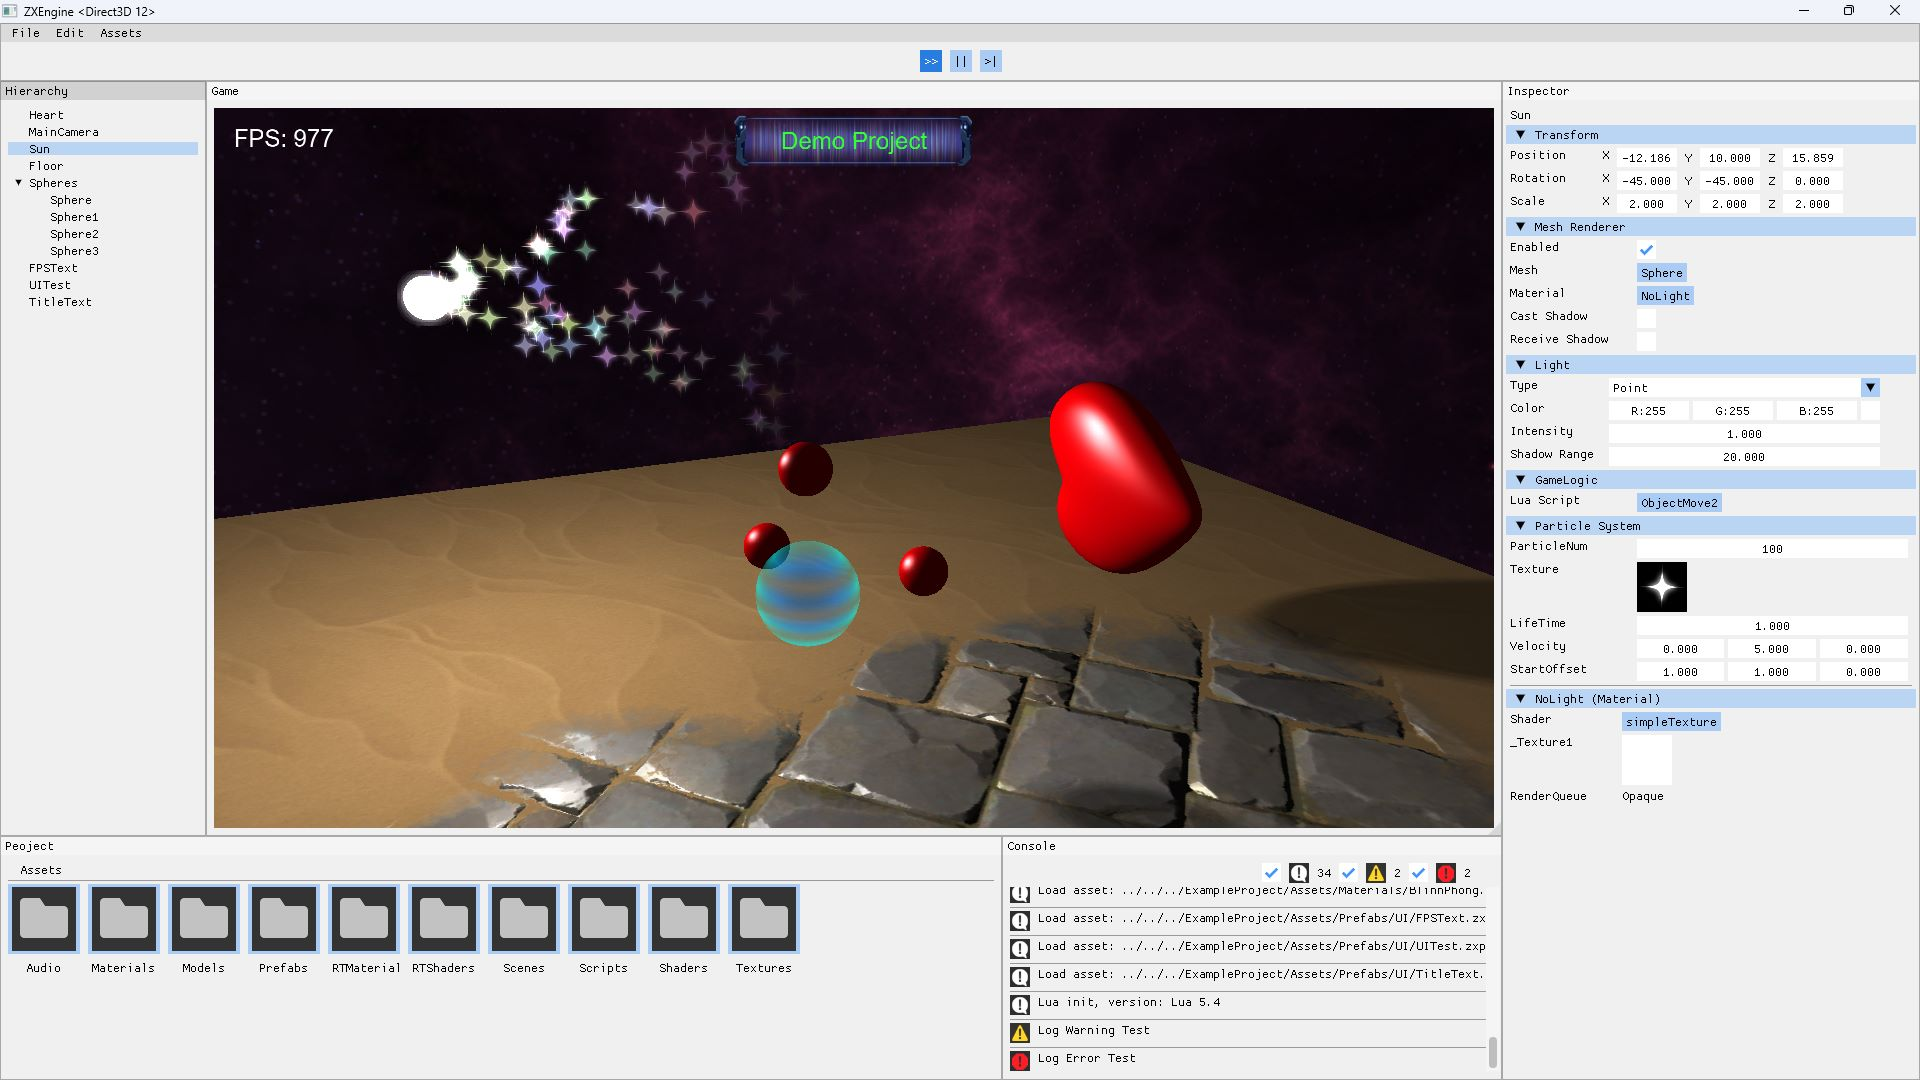
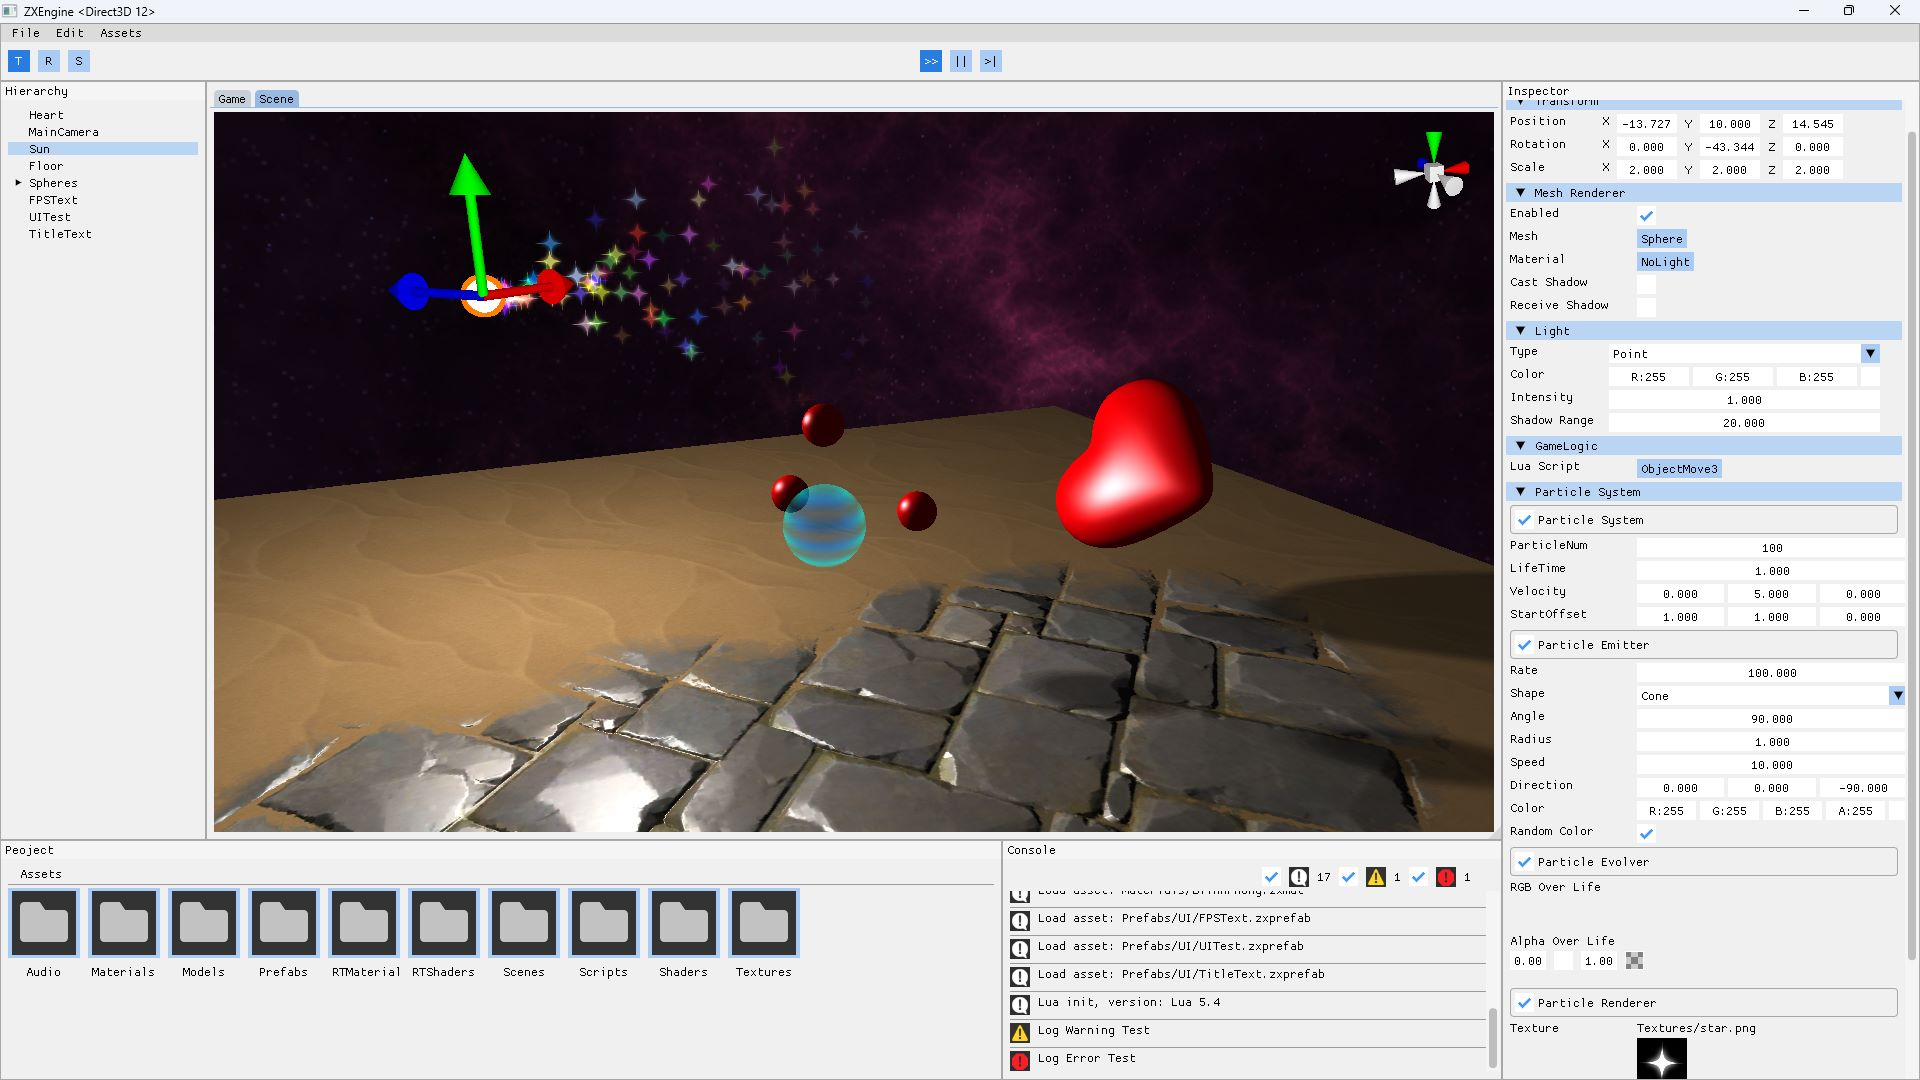
Update README.md

Changed region(s): [[0.0, 0.0306, 1.0, 0.9167], [0.8438, 0.9472, 0.9062, 1.0], [0.8438, 0.8861, 0.875, 0.9167]]

diff --git a/README.md b/README.md
@@ -68,41 +68,39 @@ The project has now completed the development of the basic scenes, prefabs, mate
 
 ## 引擎编辑器和更多演示 (Engine Editor And More Demonstration)
 
-下面是一些图片展示，引擎页面如图，和Unity编辑器类似。上面是主菜单栏，中间是游戏画面窗口，左边是展示场景中GameObject的Hierarchy面板，下面左边是展示当前打开项目的Assets文件目录的Project面板，中间是展示日志的Console面板，右边是展示当前选中对象详细信息的Inspector面板。
+引擎顶部为主菜单栏，中间是Game和Scene视图，左边是展示场景中GameObject的Hierarchy面板，下面是显示当前项目Assets目录的Project面板和显示日志的Console面板，右边是显示当前选中对象详细信息的Inspector面板。
 
-The following are some picture displays, the engine is shown in the figure, which is similar to the Unity editor. The top is the main menu bar, the middle is the game screen window, the left is the Hierarchy panel showing the GameObject in the scene, the lower left is the Project panel showing the Assets file directory of the currently opened project, the middle is the Console panel showing the log, and the right is showing the currently selected Inspector panel for object details.
+The top of the engine is the main menu bar, the middle is the Game and Scene views, on the left is the Hierarchy panel that displays the GameObjects in the scene, below is the Project panel that displays the assets of the current project and the Console panel that displays the log, and on the right is the Inspector panel that displays detailed information of the currently selected object.
 
 ![](Documents/Images/EngineShow1.jpg)
 
-当前选中了场景中的Sun对象，Inspector面板就展示这个GameObject所挂载的Component信息。
+切换到Scene视图后可以直接在场景中对选中的GameObject进行操作：
 
-The Sun object in the scene is currently selected, and the Inspector panel displays the Component information on the GameObject.
+Switch to the Scene view can manipulate the selected GameObject in the scene:
 
-点击主菜单栏的运行按钮，游戏开始运行，此时能看到场景中物体动了起来，粒子系统也开始工作。
+![](Documents\Images\TransWidgetPos.gif)![](Documents\Images\TransWidgetRot.gif)![](Documents\Images\TransWidgetScale.gif)
 
-Click the Play button on the main menu bar, and the game starts to run. At this time, you can see the objects in the scene move, and the particle system starts to work. 
+点击材质文件后Inspector面板的材质信息和材质预览：
 
-接下来展示的是一个基于PBR+IBL场景渲染，同时展示了点击材质文件后Inspector面板展示的材质信息和材质预览。
-
-Next picture is a scene rendering based on PBR+IBL, and also shows the material information and material preview displayed on the Inspector panel after clicking the material file.
+Click the material file, material information and preview on the Inspector panel:
 
 ![](Documents/Images/EngineShow2.jpg)
 
-然后通过双击场景文件，切换到一个使用光线追踪渲染管线渲染的场景。同时展示了点击模型文件后Inspector面板展示的模型信息和模型预览，如果模型带有动画还会显示骨骼和动画信息。
+双击场景文件可切换场景，光追管线也可以直接切换。图为点击模型文件后Inspector面板的模型信息和模型预览：
 
-Then switch to a scene rendered with the ray tracing pipeline by double-clicking on the scene file. At the same time, it shows the model information and model preview displayed on the Inspector panel after clicking the model file. If the model has animation, the skeleton and animation information will also be displayed.
+Double-clicking a scene file can switch scenes, and the ray tracing pipeline can also be switched directly. The picture shows the model information and model preview in the Inspector panel after clicking a model file:
 
 ![](Documents/Images/EngineShow3.jpg)
 
-接下来展示的是通过算法生成的体积云及其阴影投射效果。同时展示了点击图片文件后，Inspector面板显示的图像信息。
+点击图片文件后，Inspector面板的图像信息：
 
-Shown next are code-generated volumetric clouds and their shadow casting effects. And the right side shows the image information displayed on the Inspector panel after clicking the image file.
+Click the image file, the image information in the Inspector panel:
 
 ![](Documents/Images/EngineShow4.jpg)
 
-下面是分别点击zxshader和Lua后Inspector上的代码预览。
+点击zxshader和Lua后Inspector上的代码预览：
 
-The following is the code preview on the Inspector after clicking zxshader and Lua respectively.
+Click zxshader and Lua to preview the code in the Inspector:
 
 ![](Documents/Images/EngineShow5.jpg)
 
